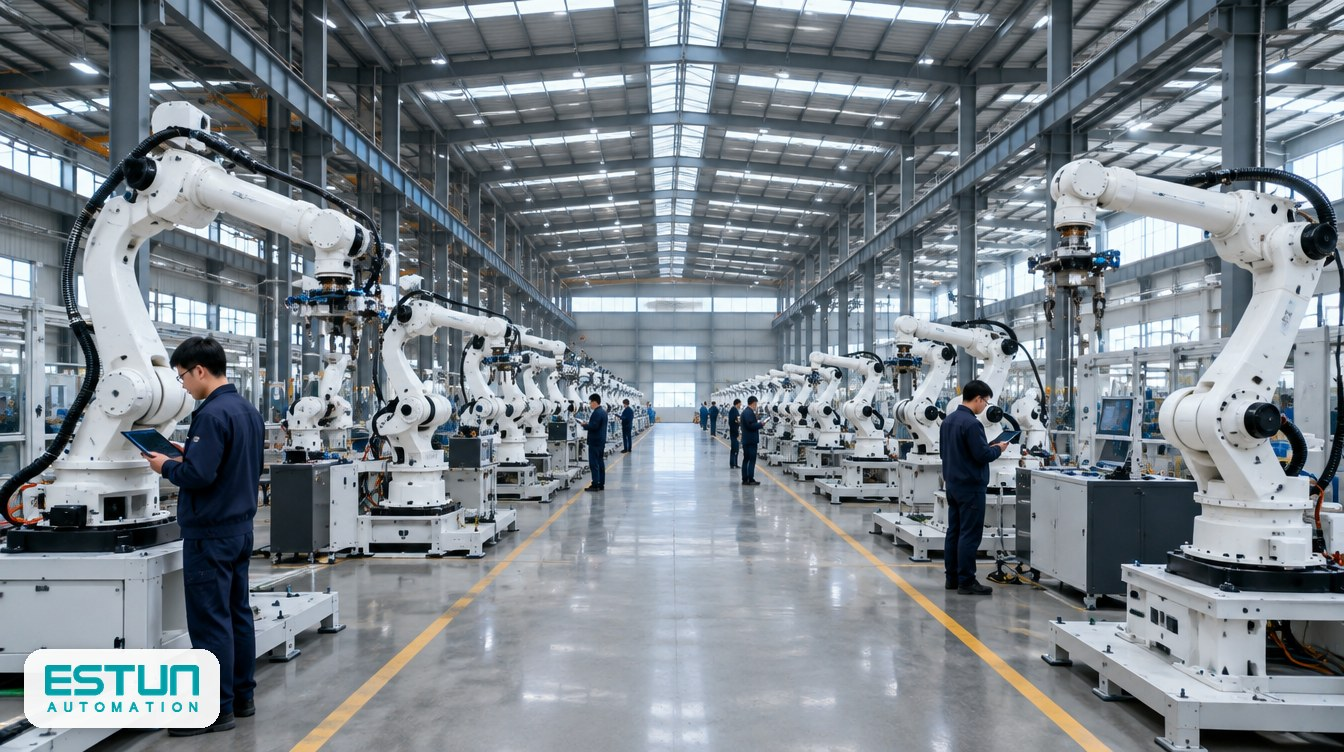
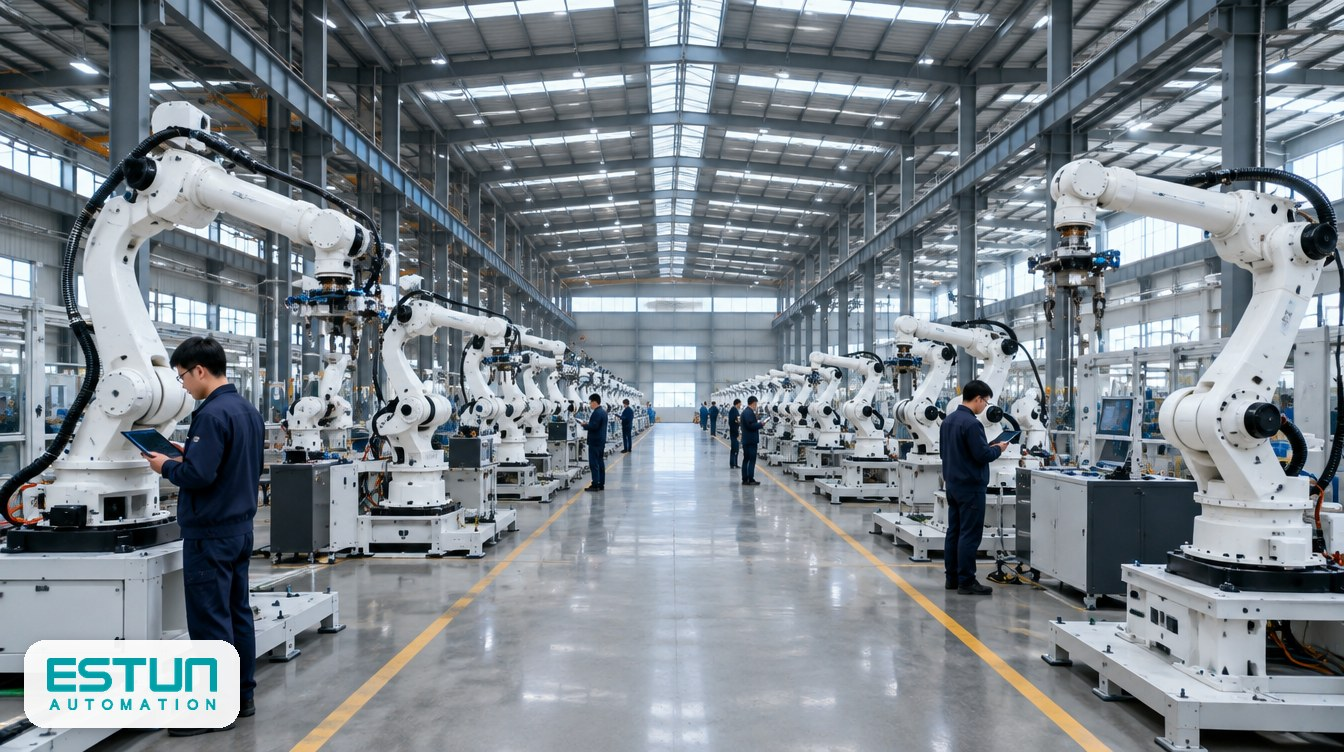
Картинки Aura Telegram №25–36 на согласование, логотипы Galbot, Henn na Hotel, Deep Robotics, Dobot
Компактные логотипы на бейдже выравниваются по площади с широкими
(Estun, Яндекс, Dobot, Henn na Hotel); логотип Henn na Hotel заменён
на версию в высоком разрешении с официального сайта.

Claude-Session: https://claude.ai/code/session_01GWbvgKxue3PjjbbHEP4BVJ

Changed region(s): [[0.0, 0.8258, 0.1875, 0.9787]]

diff --git a/CONTROL/TOOLS/logo_badge.py b/CONTROL/TOOLS/logo_badge.py
@@ -15,6 +15,8 @@ MAX_SIDE = 1600
 LOGO_H = 0.062      # высота логотипа — доля высоты картинки
 MAX_LOGO_W = 0.26   # максимальная ширина логотипа — доля ширины картинки
 MARGIN = 0.032      # отступ плашки от краёв — доля короткой стороны
+WIDE = 4.0          # логотип уже этого (иконка, квадрат) делаем выше, чтобы на глаз был того же размера
+MAX_BOOST = 1.8     # насколько выше максимум
 
 
 def load_logo(path: Path) -> Image.Image:
@@ -36,6 +38,9 @@ def load_logo(path: Path) -> Image.Image:
 
 
 def plate(logo: Image.Image, h: int, max_w: int) -> Image.Image:
+    aspect = logo.width / logo.height
+    if aspect < WIDE:                       # равная площадь с широким логотипом 4:1
+        h = round(h * min(MAX_BOOST, (WIDE / aspect) ** 0.5))
     lw = round(logo.width * h / logo.height)
     if lw > max_w:
         h = round(h * max_w / lw); lw = max_w

diff --git a/CONTROL/LOGOS/ИСТОЧНИКИ.md b/CONTROL/LOGOS/ИСТОЧНИКИ.md
@@ -14,5 +14,9 @@
 | `dreame.svg` | Dreame | https://www.dreametech.com/ (логотип в шапке сайта, LOGO_B.svg) |
 | `estun.png` | Estun | https://en.estun.com/ (логотип в шапке сайта, skin/images/logo.gif; анимированный блик убран — взят неподвижный кадр) |
 | `yandeks.svg` | Яндекс | https://yandex.ru/company/ (логотип в шапке сайта, тёмная версия) |
+| `galbot.svg` | Galbot | https://www.galbot.com/ (логотип в шапке сайта, inline SVG) |
+| `henn-na-hotel.png` | Henn na Hotel | https://www.hennnahotel.com/ (логотип бренда «変なホテル», блок брендов на главной, hennahotel_log.png, 750×530) |
+| `deep-robotics.png` | Deep Robotics | https://www.deeprobotics.cn/en/ (логотип в шапке сайта, logo_en.png) |
+| `dobot.svg` | Dobot | https://www.dobot-robots.com/ (логотип в шапке сайта, inline SVG) |
 
 Не найдено (логотип не ставим): Jinshi Intelligent Robot (Жэньцю) — официального сайта нет.

diff --git a/AURA/TELEGRAM/TEXT/2026-11-13_1800_otel-kotoryy-uvolil-robotov.md b/AURA/TELEGRAM/TEXT/2026-11-13_1800_otel-kotoryy-uvolil-robotov.md
@@ -5,6 +5,13 @@ time: "18:00"
 rubric: "Курьёз недели"
 title: "Отель, который уволил роботов"
 source: "CONTROL/SOURCES/2026-10-10_тексты-ноябрь-декабрь/01_Telegram_Aura_Robotics_120_постов.docx"
+image: "2026-11-13_1800_otel-kotoryy-uvolil-robotov.jpg"
+image_status: "на согласовании"
+image_model: "gpt_image_2_5 medium 1k 16:9"
+image_job: "88519b68-9fa6-431d-8f53-2317f7ed999d"
+image_cost: "0.5"
+image_logos: "Henn na Hotel"
+image_prompt: "Photorealistic editorial photo in the lobby of a quirky Japanese hotel at night: behind the reception counter stand a life-size animatronic dinosaur in a small hat and bow tie and a humanoid android receptionist with a frozen polite smile, while beside them a real human employee in uniform actually checks in a tired guest with a suitcase, an abandoned robotic luggage cart in the corner, warm lobby lights, signs blurred and unreadable, gently ironic mood. Realistic materials, natural colors. No text, no letters, no logos, no watermarks."
 ---
 
 **Отель, который уволил роботов**

diff --git a/AURA/TELEGRAM/TEXT/2026-11-16_1800_mif-kitayskoe-znachit-deshevoe-lomaetsya.md b/AURA/TELEGRAM/TEXT/2026-11-16_1800_mif-kitayskoe-znachit-deshevoe-lomaetsya.md
@@ -5,6 +5,13 @@ time: "18:00"
 rubric: "Миф о роботах и правда"
 title: "Миф: китайское — значит дешёвое и ломается"
 source: "CONTROL/SOURCES/2026-10-10_тексты-ноябрь-декабрь/01_Telegram_Aura_Robotics_120_постов.docx"
+image: "2026-11-16_1800_mif-kitayskoe-znachit-deshevoe-lomaetsya.jpg"
+image_status: "на согласовании"
+image_model: "gpt_image_2_5 medium 1k 16:9"
+image_job: "277b3a3c-f2e1-4719-85f5-2a8e3caba5a1"
+image_cost: "0.5"
+image_logos: ""
+image_prompt: "Photorealistic street photo in an industrial district of Shenzhen: in the foreground a cluttered street stall with cheap colorful plastic toy cars in bins, across the narrow street a modern factory with a glass wall through which clean production lines with precise robot arms are visible, scooters passing, overcast daylight, signs blurred and unreadable, contrasting mood. Realistic materials, natural colors. No text, no letters, no logos, no watermarks."
 ---
 
 **Миф: китайское — значит дешёвое и ломается**

diff --git a/AURA/TELEGRAM/TEXT/2026-11-18_0900_dobot-prodazhi-vdvoe-ubytok-eshche-bystree.md b/AURA/TELEGRAM/TEXT/2026-11-18_0900_dobot-prodazhi-vdvoe-ubytok-eshche-bystree.md
@@ -5,6 +5,13 @@ time: "09:00"
 rubric: "Сводка"
 title: "Dobot: продажи вдвое, убыток ещё быстрее"
 source: "CONTROL/SOURCES/2026-10-10_тексты-ноябрь-декабрь/01_Telegram_Aura_Robotics_120_постов.docx"
+image: "2026-11-18_0900_dobot-prodazhi-vdvoe-ubytok-eshche-bystree.jpg"
+image_status: "на согласовании"
+image_model: "gpt_image_2_5 medium 1k 16:9"
+image_job: "304233bd-22e0-4ceb-818d-0bf68c6d84fa"
+image_cost: "0.5"
+image_logos: "Dobot"
+image_prompt: "Photorealistic editorial photo at a busy industrial automation trade fair: a booth with a row of white collaborative robot arms doing pick-and-place demos, in the foreground a sales representative and a buyer negotiate at a small table with a calculator and brochures, visitors passing by, bright exhibition lighting, signs blurred and unreadable, energetic commercial mood. Realistic materials, natural colors. No text, no letters, no logos, no watermarks."
 ---
 
 **Dobot: продажи вдвое, убыток ещё быстрее**

diff --git a/AURA/TELEGRAM/TEXT/2026-11-14_1800_itogi-robotov-poschitali-no-raznomu.md b/AURA/TELEGRAM/TEXT/2026-11-14_1800_itogi-robotov-poschitali-no-raznomu.md
@@ -5,6 +5,13 @@ time: "18:00"
 rubric: "Итоги недели"
 title: "Итоги: роботов посчитали, но по-разному"
 source: "CONTROL/SOURCES/2026-10-10_тексты-ноябрь-декабрь/01_Telegram_Aura_Robotics_120_постов.docx"
+image: "2026-11-14_1800_itogi-robotov-poschitali-no-raznomu.jpg"
+image_status: "на согласовании"
+image_model: "gpt_image_2_5 medium 1k 16:9"
+image_job: "3e20e82c-da44-42ff-a5b1-e44803e81c42"
+image_cost: "0.5"
+image_logos: ""
+image_prompt: "Photorealistic still-life photo on an accountant's desk in a small factory office: an old desktop calculator, stacks of paper folders, reading glasses and a glass of tea in a metal holder, and through the window behind the desk a blurred robot arm working in the workshop, soft afternoon light, papers without readable text, wry end-of-week mood. Realistic materials, natural colors. No text, no letters, no logos, no watermarks."
 ---
 
 **Итоги: роботов посчитали, но по-разному**

diff --git a/AURA/TELEGRAM/TEXT/2026-11-15_1800_deep-robotics-x30-inspektor-dlya-plokhoy.md b/AURA/TELEGRAM/TEXT/2026-11-15_1800_deep-robotics-x30-inspektor-dlya-plokhoy.md
@@ -5,6 +5,13 @@ time: "18:00"
 rubric: "Робот недели"
 title: "Deep Robotics X30: инспектор для плохой погоды"
 source: "CONTROL/SOURCES/2026-10-10_тексты-ноябрь-декабрь/01_Telegram_Aura_Robotics_120_постов.docx"
+image: "2026-11-15_1800_deep-robotics-x30-inspektor-dlya-plokhoy.jpg"
+image_status: "на согласовании"
+image_model: "gpt_image_2_5 medium 1k 16:9"
+image_job: "75d224b1-3d77-4bee-8188-085f248c33f7"
+image_cost: "0.5"
+image_logos: "Deep Robotics"
+image_prompt: "Photorealistic dramatic photo of a heavy industrial quadruped robot walking through an electrical substation at night in pouring rain: water splashing from its feet on wet gravel, floodlights reflecting on puddles and steel structures, transformers and insulators in the background, low camera angle, tough all-weather mood. Realistic materials, natural colors. No text, no letters, no logos, no watermarks."
 ---
 
 **Deep Robotics X30: инспектор для плохой погоды**

diff --git a/AURA/TELEGRAM/TEXT/2026-11-15_0900_dvadtsat-milliardov-svoikh.md b/AURA/TELEGRAM/TEXT/2026-11-15_0900_dvadtsat-milliardov-svoikh.md
@@ -5,6 +5,13 @@ time: "09:00"
 rubric: "Сводка"
 title: "Двадцать миллиардов своих"
 source: "CONTROL/SOURCES/2026-10-10_тексты-ноябрь-декабрь/01_Telegram_Aura_Robotics_120_постов.docx"
+image: "2026-11-15_0900_dvadtsat-milliardov-svoikh.jpg"
+image_status: "на согласовании"
+image_model: "gpt_image_2_5 medium 1k 16:9"
+image_job: "7f3c8182-509f-455c-a7a6-9e0184df259a"
+image_cost: "0.5"
+image_logos: ""
+image_prompt: "Photorealistic documentary photo in a Russian robot integrator's workshop in winter: two engineers assemble a robotic welding cell around a six-axis industrial robot arm, one wiring an open control cabinet, the other fitting mesh safety fence panels, cable reels and tool trolleys around, cold daylight through frosted windows mixed with warm work lights, hands-on engineering mood. Realistic materials, natural colors. No text, no letters, no logos, no watermarks."
 ---
 
 **Двадцать миллиардов своих**

diff --git a/AURA/TELEGRAM/TEXT/2026-11-13_0900_farmatsevt-kolesikakh.md b/AURA/TELEGRAM/TEXT/2026-11-13_0900_farmatsevt-kolesikakh.md
@@ -5,6 +5,13 @@ time: "09:00"
 rubric: "Сводка"
 title: "Фармацевт на колёсиках"
 source: "CONTROL/SOURCES/2026-10-10_тексты-ноябрь-декабрь/01_Telegram_Aura_Robotics_120_постов.docx"
+image: "2026-11-13_0900_farmatsevt-kolesikakh.jpg"
+image_status: "на согласовании"
+image_model: "gpt_image_2_5 medium 1k 16:9"
+image_job: "1bbe008c-1f4e-466c-8696-56b2412b33a4"
+image_cost: "0.5"
+image_logos: "Galbot"
+image_prompt: "Photorealistic documentary photo inside a compact modern pharmacy in Beijing: a wheeled humanoid robot with two arms on a mobile base picks a small medicine box from floor-to-ceiling shelves densely packed with thousands of colorful boxes, a pharmacist in a white coat stands at the counter in the background, bright clean lighting, labels blurred and unreadable, calm precise mood. Realistic materials, natural colors. No text, no letters, no logos, no watermarks."
 ---
 
 **Фармацевт на колёсиках**

diff --git a/AURA/TELEGRAM/TEXT/2026-11-17_0900_sto-tysyach-ili-dvadtsat-vosem.md b/AURA/TELEGRAM/TEXT/2026-11-17_0900_sto-tysyach-ili-dvadtsat-vosem.md
@@ -5,6 +5,13 @@ time: "09:00"
 rubric: "Сводка"
 title: "Сто тысяч или двадцать восемь"
 source: "CONTROL/SOURCES/2026-10-10_тексты-ноябрь-декабрь/01_Telegram_Aura_Robotics_120_постов.docx"
+image: "2026-11-17_0900_sto-tysyach-ili-dvadtsat-vosem.jpg"
+image_status: "на согласовании"
+image_model: "gpt_image_2_5 medium 1k 16:9"
+image_job: "74773317-6838-46b7-b9fe-d02c58988f21"
+image_cost: "0.5"
+image_logos: ""
+image_prompt: "Photorealistic documentary photo inside a quiet Chinese factory stockroom: dozens of humanoid robots wrapped in protective plastic film stand in rows on pallets under a light layer of dust, a buyer in a coat and a sales manager walk slowly between the rows, cold daylight from skylights, still, slightly melancholic mood. Realistic materials, natural colors. No text, no letters, no logos, no watermarks."
 ---
 
 **Сто тысяч или двадцать восемь**

diff --git a/AURA/TELEGRAM/TEXT/2026-11-18_1800_nastavnik.md b/AURA/TELEGRAM/TEXT/2026-11-18_1800_nastavnik.md
@@ -5,6 +5,13 @@ time: "18:00"
 rubric: "Робот и человек"
 title: "Наставник"
 source: "CONTROL/SOURCES/2026-10-10_тексты-ноябрь-декабрь/01_Telegram_Aura_Robotics_120_постов.docx"
+image: "2026-11-18_1800_nastavnik.jpg"
+image_status: "на согласовании"
+image_model: "gpt_image_2_5 medium 1k 16:9"
+image_job: "c64c9940-f8d8-4521-bfc2-17cf184dea59"
+image_cost: "0.5"
+image_logos: ""
+image_prompt: "Photorealistic documentary photo in a Russian metal fabrication workshop: a grey-haired veteran welder in a worn canvas jacket holds a robot teach pendant and squints at the torch of a welding robot arm positioned over a slightly warped steel part on a jig, a younger foreman watches from behind, scorch marks and metal dust around, soft side light from a high window, respectful mentor mood. Realistic materials, natural colors. No text, no letters, no logos, no watermarks."
 ---
 
 **Наставник**

diff --git a/AURA/TELEGRAM/TEXT/2026-11-14_0900_roborock-desyat-milliardov-pola.md b/AURA/TELEGRAM/TEXT/2026-11-14_0900_roborock-desyat-milliardov-pola.md
@@ -5,6 +5,13 @@ time: "09:00"
 rubric: "Сводка"
 title: "Roborock: десять миллиардов с пола"
 source: "CONTROL/SOURCES/2026-10-10_тексты-ноябрь-декабрь/01_Telegram_Aura_Robotics_120_постов.docx"
+image: "2026-11-14_0900_roborock-desyat-milliardov-pola.jpg"
+image_status: "на согласовании"
+image_model: "gpt_image_2_5 medium 1k 16:9"
+image_job: "52cea3f2-c879-48ef-ad41-5dfe5079ef93"
+image_cost: "0.5"
+image_logos: "Roborock"
+image_prompt: "Photorealistic low-angle product photo of a round robot vacuum cleaner returning to its charging dock in a sunlit Scandinavian-style apartment: light wooden floor, a corner of a grey sofa and a wool rug, morning sun casting long window shadows, clean minimal interior, quiet efficient mood. Realistic materials, natural colors. No text, no letters, no logos, no watermarks."
 ---
 
 **Roborock: десять миллиардов с пола**
